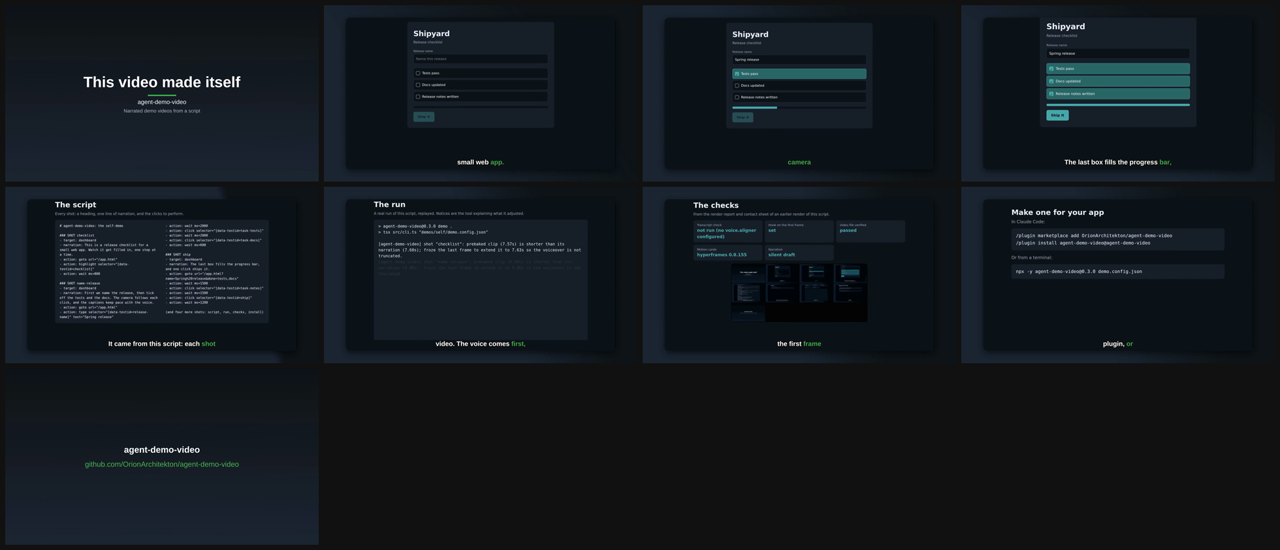
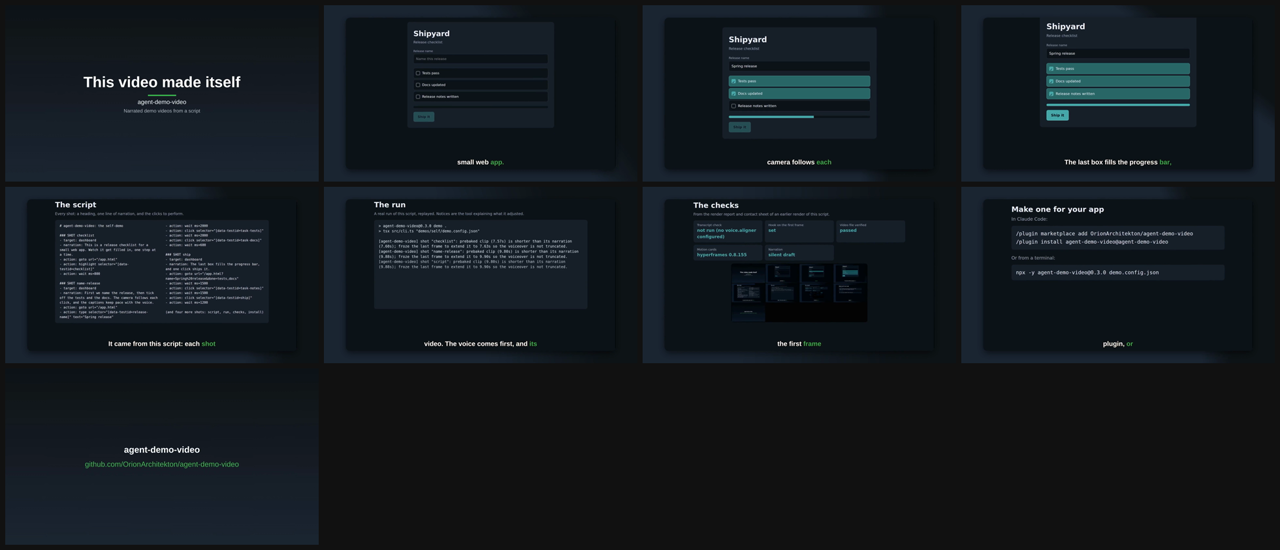
fix: report trimming never copies aligner output; one command refreshes the assets

diff --git a/tests/self-demo.test.ts b/tests/self-demo.test.ts
@@ -2,11 +2,12 @@ import { describe, it, expect } from "vitest";
 import { existsSync, readFileSync, statSync } from "node:fs";
 import { tmpdir } from "node:os";
 import { resolve } from "node:path";
+import { digestFull } from "../src/provenance";
 import { loadConfig } from "../src/config";
 import { parseScript } from "../src/parse-script";
 import { resolveSelectorFindings, structuralFindings } from "../src/preflight";
 import { filesUnder, findPrivateStrings } from "./support/distribution";
-import { buildShowcase, checksFrom, committedInputs, sanitizeLog, scriptExcerpt, trimReport } from "../demos/self/build-showcase";
+import { buildShowcase, checksFrom, committedInputs, sanitizeLog, parseRefreshArgs, refreshTexts, scriptExcerpt, trimReport } from "../demos/self/build-showcase";
 
 const root = process.cwd();
 const read = (p: string) => readFileSync(resolve(root, p), "utf8");
@@ -208,7 +209,7 @@ describe("committed assets", () => {
 
   it("the report holds only the fields the showcase reads, and never the voice setup", () => {
     const report = JSON.parse(read("demos/self/assets/report.json")) as Record<string, unknown>;
-    const allowed = ["ttsMode", "hook", "transcriptCheck", "deliverable", "motionCards"];
+    const allowed = ["ttsMode", "scriptSha256", "hook", "transcriptCheck", "deliverable", "motionCards"];
     expect(Object.keys(report).filter((k) => !allowed.includes(k))).toEqual([]);
     expect(report).not.toHaveProperty("voice");
     expect(Object.keys(report.deliverable as object).sort()).toEqual(["ok", "problems"]);
@@ -219,19 +220,70 @@ describe("committed assets", () => {
       ttsMode: "real",
       voice: { anything: "configured" },
       hook: "set",
-      transcriptCheck: { ran: false, reason: "r" },
+      transcriptCheck: { ran: false, reason: "no voice.aligner configured" },
       deliverable: { ok: true, problems: [], extra: 1 },
       motionCards: { renderer: "x", version: "1", more: 2 },
       segments: [1],
+      inputs: { scriptSha256: "ab", configSha256: "c" },
     };
     expect(trimReport(full)).toEqual({
       ttsMode: "real",
+      scriptSha256: "ab",
       hook: "set",
-      transcriptCheck: { ran: false, reason: "r" },
+      transcriptCheck: { ran: false, reason: "no voice.aligner configured" },
       deliverable: { ok: true, problems: [] },
       motionCards: { renderer: "x", version: "1" },
     });
     expect(trimReport({ ttsMode: "fake" })).toEqual({ ttsMode: "fake" });
+  });
+
+  it("trimReport never copies aligner output, only fixed reasons or the text before the first colon", () => {
+    const t = (reason: string) => (trimReport({ transcriptCheck: { ran: false, reason } }).transcriptCheck as { reason: string }).reason;
+    expect(t("aligner failed: transcript check: program not found: /x/secret-aligner")).toBe("aligner failed");
+    expect(t("script too long to compare: 9000 words")).toBe("script too long to compare");
+    expect(t("no voice.aligner configured")).toBe("no voice.aligner configured");
+    expect(t("FAKE_TTS: narration is silent")).toBe("FAKE_TTS: narration is silent");
+    expect(t("aligner wrote no word timings")).toBe("aligner wrote no word timings");
+    expect(t("unknown text /x/secret")).toBe("transcript check did not run");
+    expect(
+      trimReport({ transcriptCheck: { ran: true, droppedPhrases: ["a"], extra: "/x/secret" } }).transcriptCheck,
+    ).toEqual({ ran: true, droppedPhrases: ["a"] });
+  });
+
+  it("trimReport keeps the script digest, a hash that is not private", () => {
+    expect(trimReport({ inputs: { scriptSha256: "ab12", configSha256: "x" } }).scriptSha256).toBe("ab12");
+    expect(trimReport({}).scriptSha256).toBeUndefined();
+  });
+
+  it("the committed report's script digest is the one the tool computes for the committed script", () => {
+    const report = JSON.parse(read("demos/self/assets/report.json")) as { scriptSha256?: string };
+    expect(report.scriptSha256).toBe(digestFull(read("demos/self/DEMO_SCRIPT.md")));
+  });
+
+  it("parses the refresh arguments", () => {
+    expect(parseRefreshArgs([])).toEqual({ mode: "build" });
+    expect(parseRefreshArgs(["--refresh", "out", "run.log"])).toEqual({ mode: "refresh", outDir: "out", logFile: "run.log" });
+    expect(() => parseRefreshArgs(["--refresh", "out"])).toThrow(/usage/);
+    expect(() => parseRefreshArgs(["--bogus"])).toThrow(/usage/);
+  });
+
+  it("refreshTexts sanitizes the log and writes the trimmed report", () => {
+    const log = "\u001b[32mok\u001b[0m /repo/x/out/final.mp4 \u2014 done\n";
+    const report = JSON.stringify({
+      ttsMode: "fake",
+      voice: { secret: "/home/u/bin/voice" },
+      inputs: { scriptSha256: "ab" },
+      transcriptCheck: { ran: false, reason: "aligner failed: /home/u/bin/aligner" },
+    });
+    const out = refreshTexts({ log, reportJson: report, repoRoot: "/repo/x", home: "/home/u" });
+    expect(out.log).toBe("ok ./out/final.mp4 - done\n");
+    expect(JSON.parse(out.report)).toEqual({
+      ttsMode: "fake",
+      scriptSha256: "ab",
+      transcriptCheck: { ran: false, reason: "aligner failed" },
+    });
+    expect(out.report.endsWith("}\n")).toBe(true);
+    expect(out.report).not.toContain("/home/u");
   });
 
   it("demos/self contributes exactly the expected public files, never render output", () => {

diff --git a/demos/self/build-showcase.ts b/demos/self/build-showcase.ts
@@ -1,11 +1,14 @@
-import { readFileSync, realpathSync, writeFileSync } from "node:fs";
-import { tmpdir } from "node:os";
+import { execFileSync } from "node:child_process";
+import { mkdirSync, readFileSync, realpathSync, writeFileSync } from "node:fs";
+import { homedir, tmpdir } from "node:os";
 import { dirname, resolve } from "node:path";
 import { fileURLToPath } from "node:url";
 
 /** The render report fields the showcase reads. Everything else in the report is ignored. */
 export type ReportLike = {
   ttsMode?: string;
+  /** Digest of the script the render used, so the checks can be tied to that script. */
+  scriptSha256?: string;
   hook?: string;
   transcriptCheck?: { ran: true; droppedPhrases: string[] } | { ran: false; reason: string };
   deliverable?: { ok: boolean; problems: string[] };
@@ -47,6 +50,21 @@ export function sanitizeLog(text: string, repoRoot: string, home: string): strin
   });
 }
 
+/** The only reasons the tool itself writes for a transcript check that did not run. */
+const FIXED_REASONS = ["no voice.aligner configured", "FAKE_TTS: narration is silent", "aligner wrote no word timings"];
+
+/**
+ * Never copy aligner output. A failure reason can carry the aligner program or its error text,
+ * which is private voice setup, so anything but a fixed reason is cut at its first colon.
+ */
+function trimTranscriptCheck(t: any): ReportLike["transcriptCheck"] {
+  if (t.ran === true) return { ran: true, droppedPhrases: [...t.droppedPhrases] };
+  const reason = String(t.reason ?? "");
+  if (FIXED_REASONS.includes(reason)) return { ran: false, reason };
+  const head = reason.includes(":") ? reason.slice(0, reason.indexOf(":")).trim() : "";
+  return { ran: false, reason: head || "transcript check did not run" };
+}
+
 /**
  * Only the report fields the showcase reads. The full report records the voice setup exactly as
  * configured, which must never be committed, so assets are always written through this.
@@ -54,11 +72,30 @@ export function sanitizeLog(text: string, repoRoot: string, home: string): strin
 export function trimReport(r: Record<string, any>): ReportLike {
   const out: ReportLike = {};
   if (r.ttsMode !== undefined) out.ttsMode = r.ttsMode;
+  if (r.inputs?.scriptSha256 !== undefined) out.scriptSha256 = r.inputs.scriptSha256;
   if (r.hook !== undefined) out.hook = r.hook;
-  if (r.transcriptCheck !== undefined) out.transcriptCheck = r.transcriptCheck;
+  if (r.transcriptCheck !== undefined) out.transcriptCheck = trimTranscriptCheck(r.transcriptCheck);
   if (r.deliverable !== undefined) out.deliverable = { ok: r.deliverable.ok, problems: r.deliverable.problems };
   if (r.motionCards !== undefined) out.motionCards = { renderer: r.motionCards.renderer, version: r.motionCards.version };
   return out;
+}
+
+/** The sanitized run log and the trimmed, sanitized report text, ready to commit. */
+export function refreshTexts(i: { log: string; reportJson: string; repoRoot: string; home: string }): {
+  log: string;
+  report: string;
+} {
+  const clean = (t: string): string => sanitizeLog(t, i.repoRoot, i.home).replace(/[\u2013\u2014\u2015]/g, "-");
+  const report = trimReport(JSON.parse(i.reportJson) as Record<string, unknown>);
+  return { log: clean(i.log), report: clean(JSON.stringify(report, null, 2)) + "\n" };
+}
+
+export type CliMode = { mode: "build" } | { mode: "refresh"; outDir: string; logFile: string };
+
+export function parseRefreshArgs(args: string[]): CliMode {
+  if (args.length === 0) return { mode: "build" };
+  if (args[0] === "--refresh" && args.length === 3) return { mode: "refresh", outDir: args[1]!, logFile: args[2]! };
+  throw new Error("usage: build-showcase.ts [--refresh <out-dir> <log-file>]");
 }
 
 export function checksFrom(r: ReportLike): Check[] {
@@ -203,8 +240,27 @@ export function committedInputs(root: string = repoRoot()): ShowcaseInputs {
   };
 }
 
-if (process.argv[1] && realpathSync(resolve(process.argv[1])) === realpathSync(fileURLToPath(import.meta.url))) {
+function main(args: string[]): void {
+  const mode = parseRefreshArgs(args);
   const root = repoRoot();
+  if (mode.mode === "refresh") {
+    const assets = resolve(root, "demos/self/assets");
+    mkdirSync(assets, { recursive: true });
+    const out = refreshTexts({
+      log: readFileSync(resolve(mode.logFile), "utf8"),
+      reportJson: readFileSync(resolve(mode.outDir, "render-report.json"), "utf8"),
+      repoRoot: root,
+      home: homedir(),
+    });
+    writeFileSync(resolve(assets, "run.log"), out.log);
+    writeFileSync(resolve(assets, "report.json"), out.report);
+    execFileSync("ffmpeg", ["-loglevel", "error", "-y", "-i", resolve(mode.outDir, "contact-sheet.png"), "-vf", "scale=1280:-2", resolve(assets, "contact-sheet.png")]);
+    console.log("refreshed demos/self/assets");
+  }
   writeFileSync(resolve(root, "demos/self/showcase.html"), buildShowcase(committedInputs(root)));
   console.log("wrote demos/self/showcase.html");
+}
+
+if (process.argv[1] && realpathSync(resolve(process.argv[1])) === realpathSync(fileURLToPath(import.meta.url))) {
+  main(process.argv.slice(2));
 }

diff --git a/demos/self/showcase.html b/demos/self/showcase.html
@@ -69,7 +69,7 @@ img.sheet { display: block; margin: 0 auto; max-width: 100%; max-height: 36vh; b
 <section id="run">
 <h2>The run</h2>
 <p class="sub">A real run of this script, replayed. Notices are the tool explaining what it adjusted.</p>
-<pre data-testid="run-log"><span class="line" style="animation-delay:1.50s">&gt; agent-demo-video@0.3.0 demo .</span><span class="line" style="animation-delay:2.20s">&gt; tsx src/cli.ts &quot;demos/self/demo.config.json&quot;</span><span class="line" style="animation-delay:2.90s"></span><span class="line" style="animation-delay:3.60s">[agent-demo-video] shot &quot;checklist&quot;: prebaked clip (7.57s) is shorter than its narration (7.60s); froze the last frame to extend it to 7.63s so the voiceover is not truncated.</span><span class="line" style="animation-delay:4.30s">[agent-demo-video] shot &quot;name-release&quot;: prebaked clip (9.80s) is shorter than its narration (9.88s); froze the last frame to extend it to 9.90s so the voiceover is not truncated.</span><span class="line" style="animation-delay:5.00s">[agent-demo-video] shot &quot;script&quot;: prebaked clip (9.80s) is shorter than its narration (9.88s); froze the last frame to extend it to 9.90s so the voiceover is not truncated.</span><span class="line" style="animation-delay:5.70s">[agent-demo-video] shot &quot;run&quot;: prebaked clip (9.07s) is shorter than its narration (9.12s); froze the last frame to extend it to 9.17s so the voiceover is not truncated.</span><span class="line" style="animation-delay:6.40s">[agent-demo-video] shot &quot;checks&quot;: prebaked clip (12.47s) is shorter than its narration (12.54s); froze the last frame to extend it to 12.57s so the voiceover is not truncated.</span><span class="line" style="animation-delay:7.10s">[agent-demo-video] shot &quot;install&quot;: prebaked clip (10.60s) is shorter than its narration (10.64s); froze the last frame to extend it to 10.67s so the voiceover is not truncated.</span><span class="line" style="animation-delay:7.80s">✓ wrote ./demos/self/out/final.mp4 (70.3s, 9 segments)</span></pre>
+<pre data-testid="run-log"><span class="line" style="animation-delay:1.50s">&gt; agent-demo-video@0.3.0 demo .</span><span class="line" style="animation-delay:2.38s">&gt; tsx src/cli.ts &quot;demos/self/demo.config.json&quot;</span><span class="line" style="animation-delay:3.25s"></span><span class="line" style="animation-delay:4.13s">[agent-demo-video] shot &quot;checklist&quot;: prebaked clip (7.57s) is shorter than its narration (7.60s); froze the last frame to extend it to 7.63s so the voiceover is not truncated.</span><span class="line" style="animation-delay:5.00s">[agent-demo-video] shot &quot;script&quot;: prebaked clip (9.80s) is shorter than its narration (9.88s); froze the last frame to extend it to 9.90s so the voiceover is not truncated.</span><span class="line" style="animation-delay:5.88s">[agent-demo-video] shot &quot;checks&quot;: prebaked clip (12.47s) is shorter than its narration (12.54s); froze the last frame to extend it to 12.57s so the voiceover is not truncated.</span><span class="line" style="animation-delay:6.75s">[agent-demo-video] shot &quot;install&quot;: prebaked clip (10.60s) is shorter than its narration (10.64s); froze the last frame to extend it to 10.67s so the voiceover is not truncated.</span><span class="line" style="animation-delay:7.63s">✓ wrote ./demos/self/out/final.mp4 (73.8s, 9 segments)</span></pre>
 </section>
 <section id="checks">
 <h2>The checks</h2>

diff --git a/docs/superpowers/plans/2026-10-14-self-demo.md b/docs/superpowers/plans/2026-10-14-self-demo.md
@@ -567,25 +567,19 @@ FAKE_TTS=1 pnpm demo demos/self/demo.config.json 2>&1 | tee <scratch>/self-silen
 ```
 
 If the render stops in preflight or fails, fix the script or pages and rerun. When it writes
-`demos/self/out/final.mp4`, replace the assets with the real ones, sanitized:
+`demos/self/out/final.mp4`, replace the assets with the real ones with one command. It reads the
+render report, the contact sheet and the log; writes a sanitized log, a report trimmed to only the
+fields the showcase reads (never the voice setup or any aligner output) and a 1280-wide contact
+sheet into `demos/self/assets`; then regenerates `showcase.html`:
 
 ```bash
-pnpm tsx -e '
-import { readFileSync, writeFileSync } from "node:fs";
-import { homedir } from "node:os";
-import { sanitizeLog } from "./demos/self/build-showcase.ts";
-const root = process.cwd(), home = homedir();
-const clean = (s) => sanitizeLog(s, root, home);
-writeFileSync("demos/self/assets/run.log", clean(readFileSync(process.argv[1], "utf8")));
-writeFileSync("demos/self/assets/report.json", clean(readFileSync("demos/self/out/render-report.json", "utf8")));
-' <scratch>/self-silent.log
-ffmpeg -y -i demos/self/out/contact-sheet.png -vf scale=1280:-2 demos/self/assets/contact-sheet.png
-pnpm tsx demos/self/build-showcase.ts
+pnpm tsx demos/self/build-showcase.ts --refresh demos/self/out <scratch>/self-silent.log
 ```
 
-Strip ANSI color codes from the log if the CLI emits them (`sed 's/\x1b\[[0-9;]*m//g'`) and drop
-any line that is only a progress spinner. Keep the log's real wording otherwise. If the contact
-sheet is still over 600 KB, scale it down further.
+Plain `pnpm tsx demos/self/build-showcase.ts` only regenerates the showcase. The trimmed report
+keeps `scriptSha256`, so any later script edit needs a refresh (a test enforces it). Keep the log's
+real wording; ANSI codes are stripped by the sanitizer. If the contact sheet is still over 600 KB,
+scale it down further.
 
 - [ ] **Step 5: Run the tests**
 
@@ -648,10 +642,10 @@ repository. Work in `<scratch>`.
   Check `render-report.json`: `ttsMode` is `real`, every `narration[].timing` is `aligned`, and
   `transcriptCheck.ran` is true with no dropped phrases. If a phrase was dropped, adjust that
   narration line's wording (and get the maintainer's OK for the change), then repeat.
-- [ ] **Step 3: Refresh the showcase from the narrated pass.** Replace `demos/self/assets/run.log`,
-  `report.json` and `contact-sheet.png` from `<scratch>/self-narrated-1` exactly as in Task 3
-  Step 4 (same sanitizing, same scaling), regenerate the showcase, run the tests, and commit as
-  `feat: self-demo shows the checks from its narrated render`.
+- [ ] **Step 3: Refresh the showcase from the narrated pass.** Run
+  `pnpm tsx demos/self/build-showcase.ts --refresh <scratch>/self-narrated-1 <scratch>/<its log>`
+  (Task 3 Step 4: sanitized log, trimmed report, 1280-wide contact sheet, regenerated showcase),
+  run the tests, and commit as `feat: self-demo shows the checks from its narrated render`.
 - [ ] **Step 4: Final narrated pass.** Set `out` to `<scratch>/self-narrated-2` and render again,
   so the video shows the narrated pass's real checks. Repeat the Step 2 report checks, extract the
   first frame, and run the reviewer (Task 4 Step 2) on this render. Look at the first frame, the
